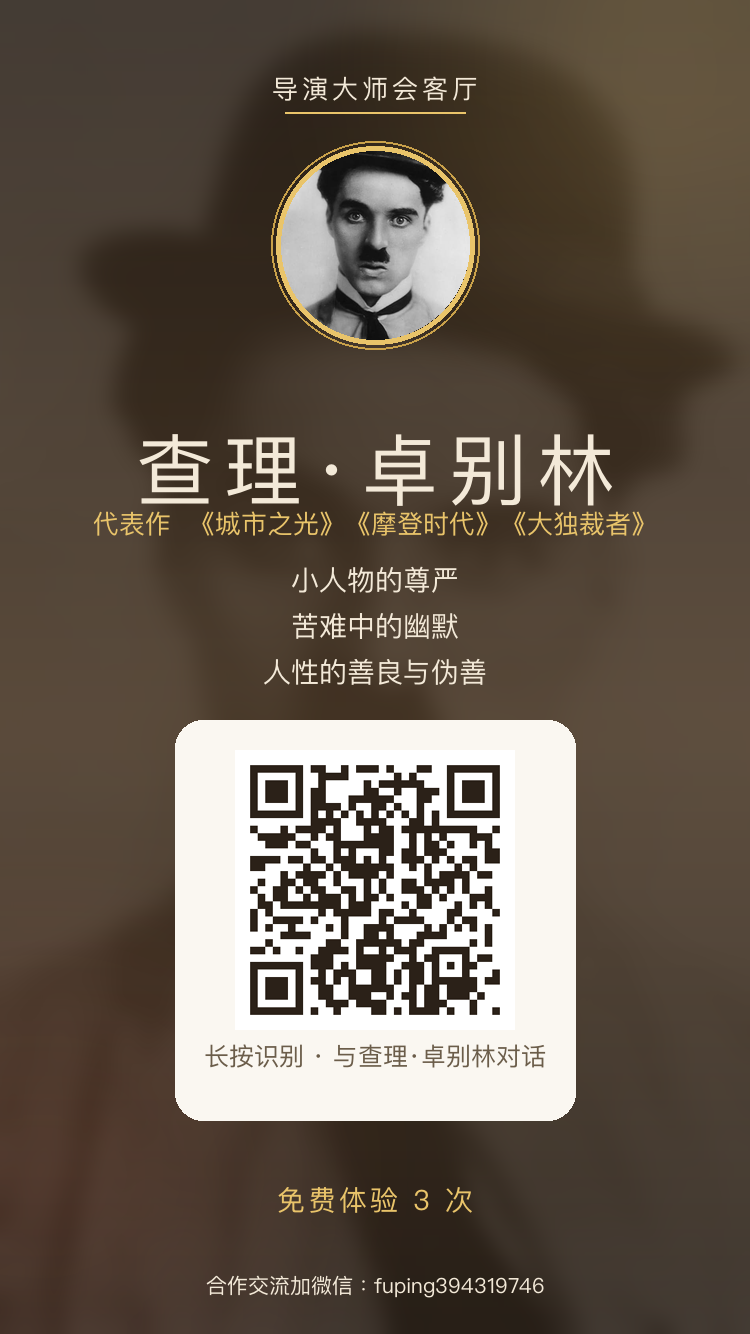
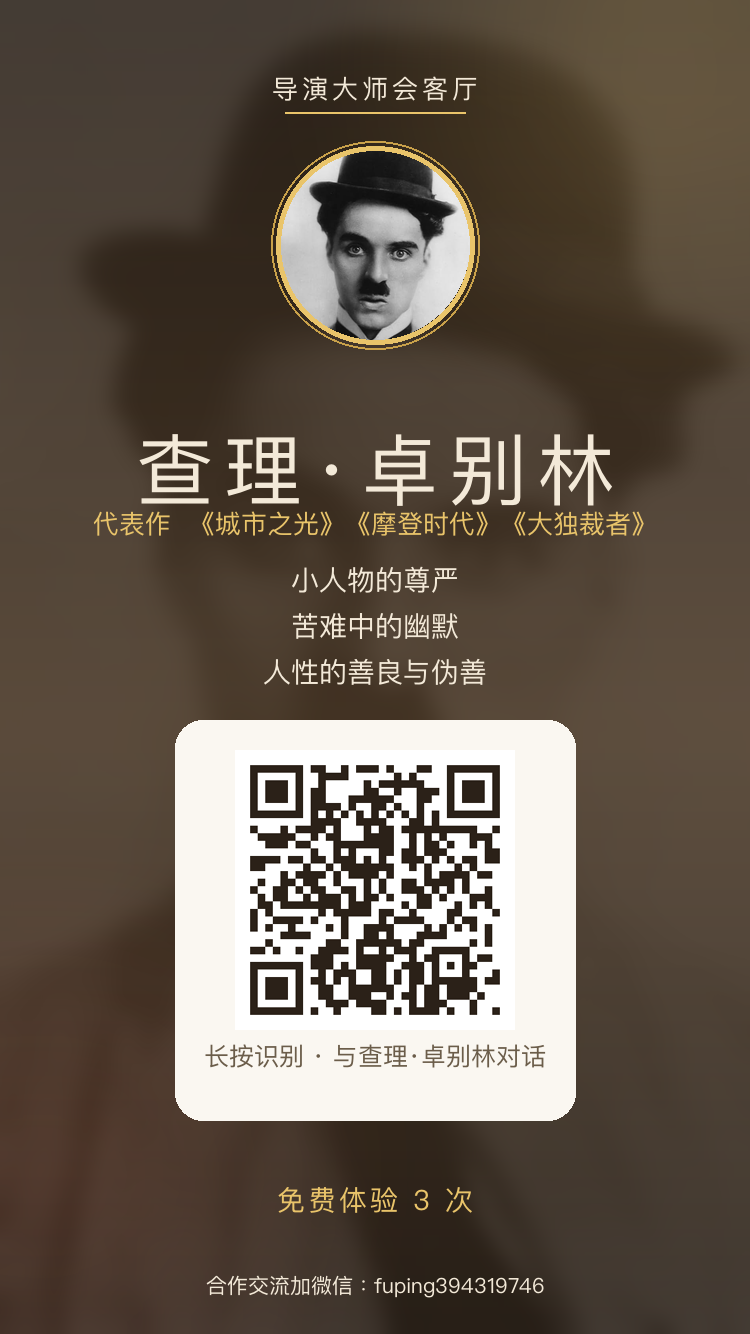
fix: 海报圆形肖像裁剪重心上移，避免切头顶

Changed region(s): [[0.368, 0.1229, 0.6133, 0.2766]]

diff --git a/directors/share/make_director_posters.py b/directors/share/make_director_posters.py
@@ -106,7 +106,7 @@ def make_poster(director):
             pr = 95                       # 肖像半径
             pcx, pcy = cx, 245            # 肖像圆心
             p = Image.open(pf).convert('RGB')
-            p = ImageOps.fit(p, (pr*2, pr*2), method=Image.LANCZOS)
+            p = ImageOps.fit(p, (pr*2, pr*2), method=Image.LANCZOS, centering=(0.5, 0.18))
             # 轻微降饱和，贴合复古底色
             p = Image.blend(p, ImageOps.grayscale(p).convert('RGB'), 0.25)
             mask = Image.new('L', (pr*2, pr*2), 0)
